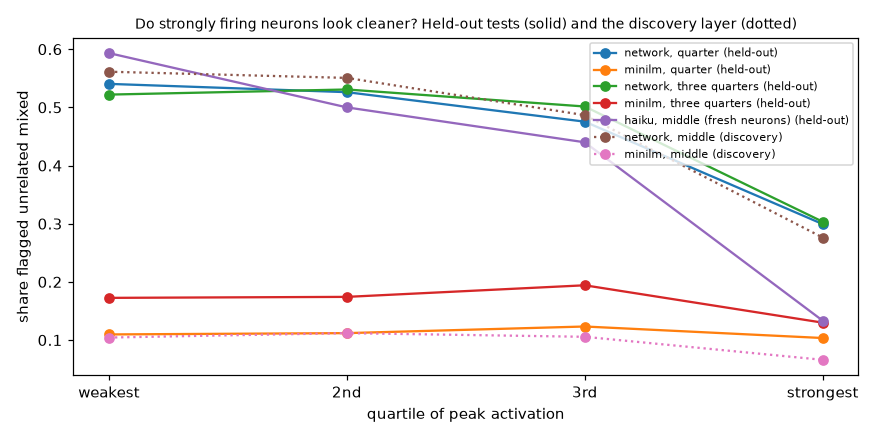
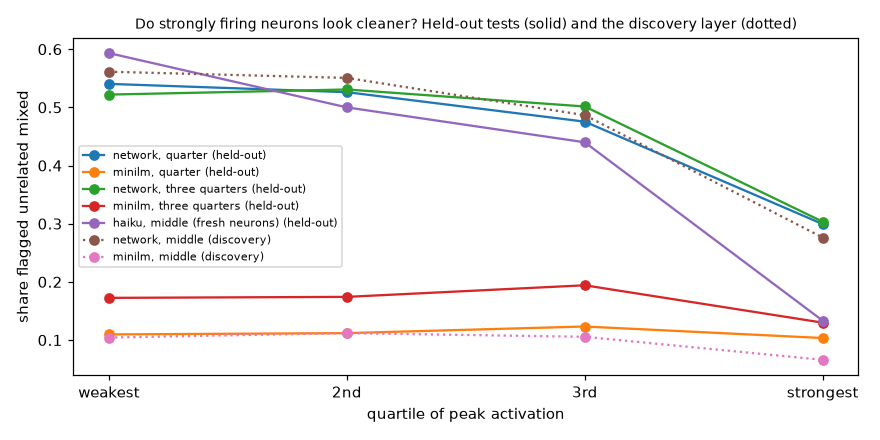
Add v12 results section to README

Changed region(s): [[0.6443, 0.0886, 0.9818, 0.3841], [0.092, 0.325, 0.3989, 0.6205]]

diff --git a/recgen/plots_v12.py b/recgen/plots_v12.py
@@ -21,7 +21,7 @@ def main() -> None:
     ax.set_xticks(x, ["weakest", "2nd", "3rd", "strongest"])
     ax.set_xlabel("quartile of peak activation")
     ax.set_ylabel("share flagged unrelated mixed")
-    ax.legend(fontsize=7, loc="upper right")
+    ax.legend(fontsize=7, loc="center left")
     ax.set_title("Do strongly firing neurons look cleaner? Held-out tests (solid) and the discovery layer (dotted)", fontsize=9)
     fig.tight_layout()
     FIGURES_DIR.mkdir(exist_ok=True)

diff --git a/README.md b/README.md
@@ -600,6 +600,82 @@ Points 4 and 5 are exploratory, added after seeing the results.
 
 `run_v9.sh` needs v5's and v6's caches and v7's results. With v9's cached Haiku answers in `data/v9/`, it makes no model calls and reruns in a few minutes. From scratch, the 960 readings take about 30 minutes.
 
+## v12 results
+
+v9 found, after looking at the middle layer, that neurons with a larger peak activation are flagged unrelated mixed less often. v12 is a confirmatory test of that finding on data it didn't use. The rules are in [`recgen/rubric_v12.py`](recgen/rubric_v12.py), committed (`49e15c4`) before any held-out data was examined. They were amended once (`d102a67`), after the first analysis run crashed and before any result was computed. No earlier file or result changed.
+
+### v12 method
+
+1. **Held-out data.**
+   - The network reader's (v6) and MiniLM's (v5) flags at the quarter and three-quarters depths of all six sizes. They were computed for every sampled neuron in earlier versions but never examined for magnitude.
+   - Fresh Haiku readings at the middle layer: 25 sampled neurons from each peak quartile per model (600 in all), none of them among v7's 100, read with v7's prompt and CLI. All 600 returned a valid label.
+2. **Peak** is log(peak / median peak of the layer's sampled neurons), so layers and sizes are comparable.
+3. **H1 (primary), per reader and depth.** The top peak quartile's flag rate minus the other three quartiles' must be below zero, with a bootstrap interval entirely below zero. Peak's Spearman correlation with the flag must also be negative in at least 5 of the 6 models.
+4. **H2 (controls).** A logistic regression of the flag on standardized log peak, peakedness (peak over the 50th-ranked window maximum), density (share of windows at or above half the peak) and token purity, with a fixed effect per model. It holds if log peak's coefficient has a bootstrap interval entirely below zero.
+5. **Amendment.** One neuron (70M, quarter depth) fires in fewer than 50 windows, so its peakedness is undefined. It stays in H1 and is left out of H2.
+6. The rules allowed adding v11's Haiku readings at the other depths if they existed at analysis time. They didn't, so v12 has none.
+
+The middle-layer network and MiniLM results are where the effect was found. They're reported as "discovery", apart from the held-out tests.
+
+### What v12 found
+
+![Flag rate by peak quartile](results/figures/v12_magnitude.png)
+
+| Reader, depth | Neurons | Flagged, by peak quartile (weakest to strongest) | Top minus rest (points), models negative | Log-peak coefficient with controls | H1 / H2 |
+|---|---|---|---|---|---|
+| **Held out** | | | | | |
+| network, quarter | 12,242 | 54% / 53% / 48% / 30% | -21 (-24 to -19), 6/6 | -0.58 (-0.64 to -0.52) | yes / yes |
+| network, three quarters | 11,786 | 52% / 53% / 50% / 30% | -21 (-23 to -19), 6/6 | -0.56 (-0.62 to -0.51) | yes / yes |
+| Haiku, middle (fresh neurons) | 600 | 59% / 50% / 44% / 13% | -38 (-45 to -30), 6/6 | -0.94 (-1.37 to -0.60) | yes / yes |
+| MiniLM, quarter | 12,242 | 11% / 11% / 12% / 10% | -1 (-2 to 0), 4/6 | -0.22 (-0.31 to -0.14) | no / yes |
+| MiniLM, three quarters | 11,786 | 17% / 17% / 19% / 13% | -5 (-6 to -3), 6/6 | -0.28 (-0.35 to -0.21) | yes / yes |
+| **Discovery** | | | | | |
+| network, middle | 11,801 | 56% / 55% / 49% / 28% | -26 (-28 to -24), 6/6 | -0.57 (-0.62 to -0.51) | yes / yes |
+| MiniLM, middle | 11,801 | 10% / 11% / 11% / 7% | -4 (-5 to -3), 5/6 | -0.35 (-0.44 to -0.26) | yes / yes |
+
+Point 4 is exploratory, added after v9's independent review and not pre-registered.
+
+1. **The effect replicates on every held-out test for the network reader and Haiku.** The strongest quarter of neurons is flagged about 21 points less than the rest by the network reader at both held-out depths, and 38 points less by Haiku on 600 fresh neurons, in all six models.
+2. **The obvious controls don't explain it.** With peakedness, density and token purity in the regression, log peak's coefficient stays clearly negative in every test (H2).
+3. **MiniLM shows at most a faint version:** a difference of 1 to 5 points, and its quarter-depth H1 fails. Its H2 holds, but its flag rate is only 10% to 19%.
+4. **Most of the effect is how alike a neuron's strongest examples are.** v9's review found that strong neurons' top 50 examples are more alike in the network's own representation (v6's top-pair percentile: the median similarity of the 50 examples, ranked against random positions). Adding that coherence as a fifth covariate (`exploratory_with_coherence` in the results):
+   - **Haiku**, which never sees that representation: coherence is -0.93 (-1.28 to -0.69), and log peak drops from -0.94 to -0.37 (-0.81 to -0.03).
+   - **Network reader:** coherence takes over completely (-1.4 to -1.5 at every depth), and log peak turns slightly positive (+0.18 to +0.27). This is partly circular, because the reader's flag is computed in the same representation.
+   - **MiniLM:** both coefficients are small.
+
+### What this does and doesn't show
+
+- **A pre-registered, replicated regularity.** At three depths of six Pythia sizes, a neuron's strongest examples look more like one job the larger its peak activation. Two readers that work in completely different ways agree. Most of it runs through how alike those examples are inside the network (point 4), and the text-only reader (Haiku) tracks that internal similarity.
+- **It doesn't say weak neurons are more polysemantic.** Two readings fit the data:
+  - Mixing could really concentrate in weakly firing neurons.
+  - Every neuron could be clean at the top of its range and mixed further down. A weak neuron's top 50 examples would then reach less far into its tail. The toy model of superposition makes this prediction within single neurons ([Elhage et al. 2022, "Toy Models of Superposition"](https://transformer-circuits.pub/2022/toy_model/index.html), section "Computation in Superposition", subsection "Superposition vs Sparsity").
+
+  v12 can't separate them, because every reader sees only the top 50. Reading examples from a fixed band of each neuron's own range would.
+- **It's partly known.** A link between strong, rare, heavy-tailed activation and cleaner units has been reported for SAE features, for GPT-2's universal neurons ([Gurnee et al. 2024](https://arxiv.org/abs/2401.12181), section 4.3) and in toy models. Peak activation predicting how mixed a raw neuron's top examples look, across a model family and confirmed by two readers, appears to be a modest extension.
+
+### What's still shaky
+
+- **Coherence and the network reader's flag come from the same representation,** so point 4's network result says little on its own. Haiku is the informative case, and it has 600 neurons with one reading each.
+- **Point 4 isn't pre-registered.** It was added after v9's review, which had already looked at the other depths.
+- **Haiku's labels are noisy.** v7's retest gave kappa 0.37 on real neurons, and v12 didn't retest.
+- **Haiku runs through the `claude` CLI,** which adds a little hidden context: the working directory, the platform, the date and an account notice. It includes no git branch, commit or file contents, so it doesn't reveal which units are real.
+- **Scope:** Pythia 70M to 2.8B, three depths, top 50 examples per neuron.
+
+### v12 files and reproduce
+
+| Path | What it is |
+|---|---|
+| [`recgen/rubric_v12.py`](recgen/rubric_v12.py) | Pre-registered held-out data, H1 and H2, with the amendment |
+| [`recgen/read_v12.py`](recgen/read_v12.py) | Fresh middle-layer neurons per peak quartile; Haiku readings through v7's cached reader |
+| [`recgen/analyze_v12.py`](recgen/analyze_v12.py), [`recgen/plots_v12.py`](recgen/plots_v12.py) | Covariates, both hypotheses per reader and depth, the exploratory coherence check; the figure |
+| [`results/classification_v12.json`](results/classification_v12.json), [`results/v12_llm_answers.json`](results/v12_llm_answers.json) | Results and every Haiku reading |
+
+```bash
+./run_v12.sh
+```
+
+`run_v12.sh` needs v5's and v6's caches and results. With v12's cached Haiku answers in `data/v12/`, it makes no model calls and reruns in about five minutes.
+
 ## Files
 
 | Path | What it is |
